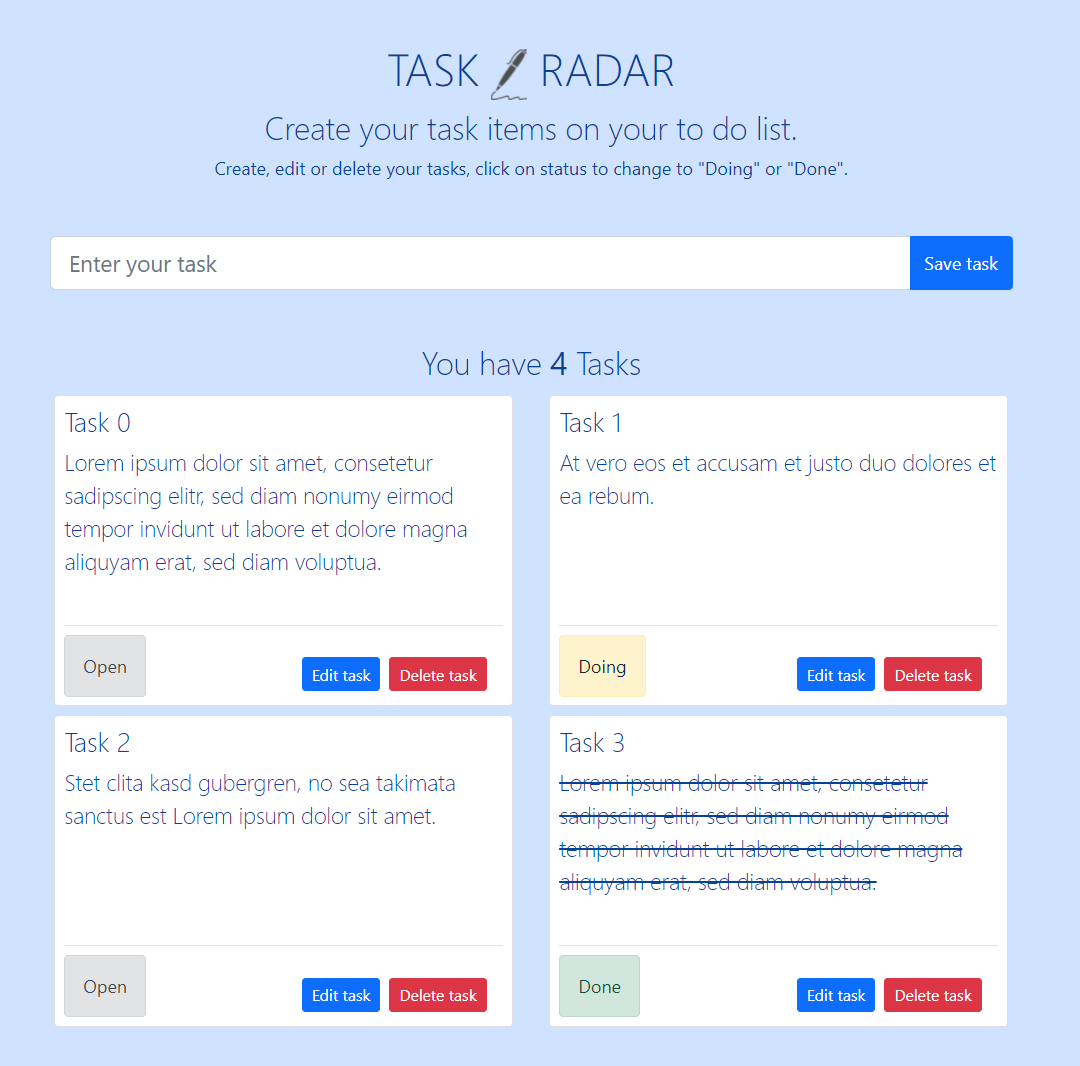
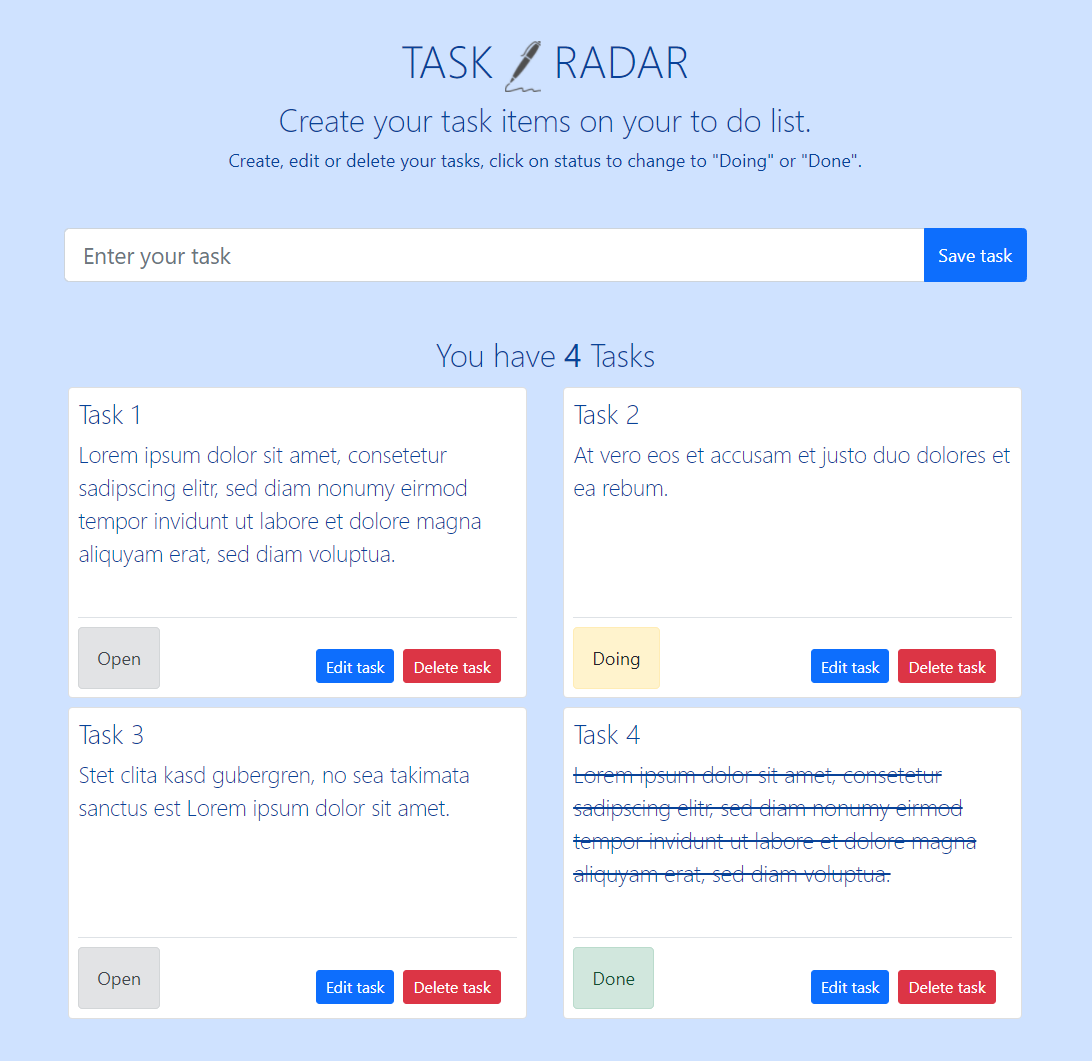
Corrects task count

Changed region(s): [[0.0306, 0.311, 0.9472, 0.9642], [0.2139, 0.0311, 0.7639, 0.1866], [0.0306, 0.2177, 0.9472, 0.2799]]

diff --git a/src/components/taskradar.vue b/src/components/taskradar.vue
@@ -25,7 +25,7 @@
     <div class="row">
       <div v-for="(task, index) in tasks" :key="index" class="col-md-6">
         <div class="card m-1 p-2">
-          <h4 class="card-title fw-lighter">Task {{ index }}</h4>
+          <h4 class="card-title fw-lighter">Task {{ index + 1 }}</h4>
           <div class="fs-5 fw-lighter task-description border-bottom">
             <span
               :class="{
